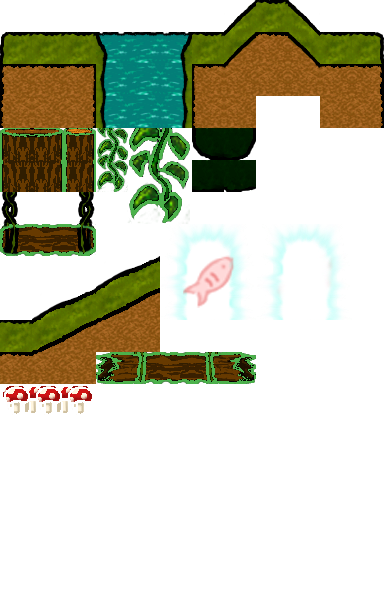
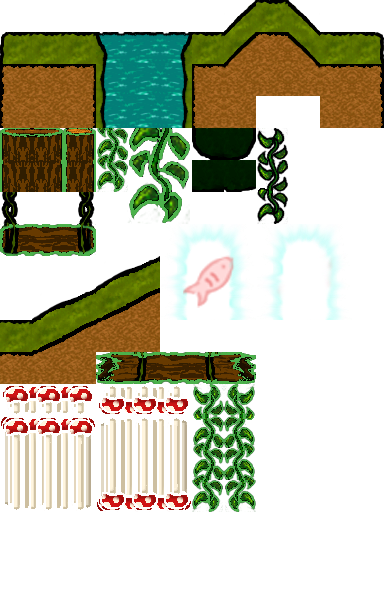
tilesets added 2xn mushrooms and baseless vines

Changed region(s): [[0.0, 0.6, 0.6875, 0.87], [0.6562, 0.21, 0.75, 0.39]]

diff --git a/assets/maps/lakeTiles.tsx b/assets/maps/lakeTiles.tsx
@@ -443,4 +443,169 @@
    <property name="type" value="wall"/>
   </properties>
  </tile>
+ 
+ <!-- MUSHROOMS-->
+ <tile id="144">
+  <properties>
+   <property name="type" value="mushroom"/>
+  </properties>
+ </tile>
+ <tile id="145">
+  <properties>
+   <property name="type" value="mushroom"/>
+  </properties>
+ </tile>
+ <tile id="146">
+  <properties>
+   <property name="type" value="mushroom"/>
+  </properties>
+  </tile>
+  <tile id="147">
+  <properties>
+   <property name="type" value="mushroom"/>
+  </properties>
+ </tile>
+ <tile id="148">
+  <properties>
+   <property name="type" value="mushroom"/>
+  </properties>
+ </tile>
+ <tile id="149">
+  <properties>
+   <property name="type" value="mushroom"/>
+  </properties>
+ </tile>
+  <tile id="156">
+  <properties>
+   <property name="type" value="mushroom"/>
+  </properties>
+ </tile>
+ <tile id="157">
+  <properties>
+   <property name="type" value="mushroom"/>
+  </properties>
+ </tile>
+ <tile id="158">
+  <properties>
+   <property name="type" value="mushroom"/>
+  </properties>
+  </tile>
+  <tile id="159">
+  <properties>
+   <property name="type" value="mushroom"/>
+  </properties>
+ </tile>
+ <tile id="160">
+  <properties>
+   <property name="type" value="mushroom"/>
+  </properties>
+ </tile>
+ <tile id="161">
+  <properties>
+   <property name="type" value="mushroom"/>
+  </properties>
+  </tile>
+  <tile id="168">
+  <properties>
+   <property name="type" value="mushroom"/>
+  </properties>
+ </tile>
+ <tile id="169">
+  <properties>
+   <property name="type" value="mushroom"/>
+  </properties>
+ </tile>
+ <tile id="170">
+  <properties>
+   <property name="type" value="mushroom"/>
+  </properties>
+  </tile>
+  <tile id="171">
+  <properties>
+   <property name="type" value="mushroom"/>
+  </properties>
+ </tile>
+ <tile id="172">
+  <properties>
+   <property name="type" value="mushroom"/>
+  </properties>
+ </tile>
+ <tile id="173">
+  <properties>
+   <property name="type" value="mushroom"/>
+  </properties>
+  </tile>
+  <tile id="180">
+  <properties>
+   <property name="type" value="mushroom"/>
+  </properties>
+ </tile>
+ <tile id="181">
+  <properties>
+   <property name="type" value="mushroom"/>
+  </properties>
+ </tile>
+ <tile id="182">
+  <properties>
+   <property name="type" value="mushroom"/>
+  </properties>
+  </tile>
+  <tile id="183">
+  <properties>
+   <property name="type" value="mushroom"/>
+  </properties>
+ </tile>
+ <tile id="184">
+  <properties>
+   <property name="type" value="mushroom"/>
+  </properties>
+ </tile>
+ <tile id="185">
+  <properties>
+   <property name="type" value="mushroom"/>
+  </properties>
+  </tile>
+  
+<!-- BASELESS VINES -->
+ <tile id="150">
+  <properties>
+   <property name="type" value="true"/>
+  </properties>
+ </tile>
+ <tile id="151">
+  <properties>
+   <property name="type" value="true"/>
+  </properties>
+ </tile>
+ <tile id="162">
+  <properties>
+   <property name="type" value="true"/>
+  </properties>
+ </tile>
+ <tile id="163">
+  <properties>
+   <property name="type" value="true"/>
+  </properties>
+ </tile>
+ <tile id="174">
+  <properties>
+   <property name="type" value="true"/>
+  </properties>
+ </tile>
+ <tile id="175">
+  <properties>
+   <property name="type" value="true"/>
+  </properties>
+  </tile> 
+ <tile id="186">
+  <properties>
+   <property name="type" value="true"/>
+  </properties>
+ </tile>
+ <tile id="187">
+  <properties>
+   <property name="type" value="true"/>
+  </properties>
+  </tile> 
+
 </tileset>

diff --git a/assets/maps/forestTiles.tsx b/assets/maps/forestTiles.tsx
@@ -444,6 +444,8 @@
   </properties>
  </tile>
  <tile id="144">
+ 
+ <!-- MUSHROOMS -->
   <properties>
    <property name="type" value="mushroom"/>
   </properties>
@@ -457,5 +459,157 @@
   <properties>
    <property name="type" value="mushroom"/>
   </properties>
+  </tile>
+  <tile id="147">
+  <properties>
+   <property name="type" value="mushroom"/>
+  </properties>
  </tile>
+ <tile id="148">
+  <properties>
+   <property name="type" value="mushroom"/>
+  </properties>
+ </tile>
+ <tile id="149">
+  <properties>
+   <property name="type" value="mushroom"/>
+  </properties>
+ </tile>
+ 
+  <tile id="156">
+  <properties>
+   <property name="type" value="mushroom"/>
+  </properties>
+ </tile>
+ <tile id="157">
+  <properties>
+   <property name="type" value="mushroom"/>
+  </properties>
+ </tile>
+ <tile id="158">
+  <properties>
+   <property name="type" value="mushroom"/>
+  </properties>
+  </tile>
+  <tile id="159">
+  <properties>
+   <property name="type" value="mushroom"/>
+  </properties>
+ </tile>
+ <tile id="160">
+  <properties>
+   <property name="type" value="mushroom"/>
+  </properties>
+ </tile>
+ <tile id="161">
+  <properties>
+   <property name="type" value="mushroom"/>
+  </properties>
+  </tile>
+  
+  <tile id="168">
+  <properties>
+   <property name="type" value="mushroom"/>
+  </properties>
+ </tile>
+ <tile id="169">
+  <properties>
+   <property name="type" value="mushroom"/>
+  </properties>
+ </tile>
+ <tile id="170">
+  <properties>
+   <property name="type" value="mushroom"/>
+  </properties>
+  </tile>
+  <tile id="171">
+  <properties>
+   <property name="type" value="mushroom"/>
+  </properties>
+ </tile>
+ <tile id="172">
+  <properties>
+   <property name="type" value="mushroom"/>
+  </properties>
+ </tile>
+ <tile id="173">
+  <properties>
+   <property name="type" value="mushroom"/>
+  </properties>
+  </tile>
+  
+  <tile id="180">
+  <properties>
+   <property name="type" value="mushroom"/>
+  </properties>
+ </tile>
+ <tile id="181">
+  <properties>
+   <property name="type" value="mushroom"/>
+  </properties>
+ </tile>
+ <tile id="182">
+  <properties>
+   <property name="type" value="mushroom"/>
+  </properties>
+  </tile>
+  <tile id="183">
+  <properties>
+   <property name="type" value="mushroom"/>
+  </properties>
+ </tile>
+ <tile id="184">
+  <properties>
+   <property name="type" value="mushroom"/>
+  </properties>
+ </tile>
+ <tile id="185">
+  <properties>
+   <property name="type" value="mushroom"/>
+  </properties>
+  </tile>
+  
+  <!-- BASELESS VINES -->
+ <tile id="150">
+  <properties>
+   <property name="type" value="true"/>
+  </properties>
+ </tile>
+ <tile id="151">
+  <properties>
+   <property name="type" value="true"/>
+  </properties>
+ </tile>
+ <tile id="162">
+  <properties>
+   <property name="type" value="true"/>
+  </properties>
+ </tile>
+ <tile id="163">
+  <properties>
+   <property name="type" value="true"/>
+  </properties>
+ </tile>
+ <tile id="174">
+  <properties>
+   <property name="type" value="true"/>
+  </properties>
+ </tile>
+ <tile id="175">
+  <properties>
+   <property name="type" value="true"/>
+  </properties>
+  </tile> 
+ <tile id="186">
+  <properties>
+   <property name="type" value="true"/>
+  </properties>
+ </tile>
+ <tile id="187">
+  <properties>
+   <property name="type" value="true"/>
+  </properties>
+  </tile> 
+
+ 
 </tileset>
